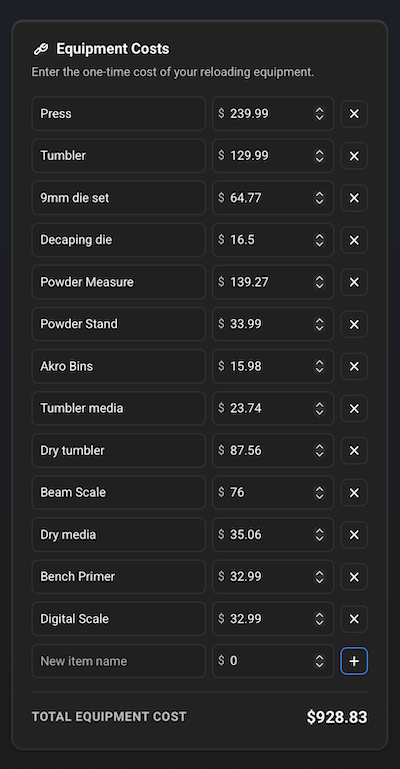
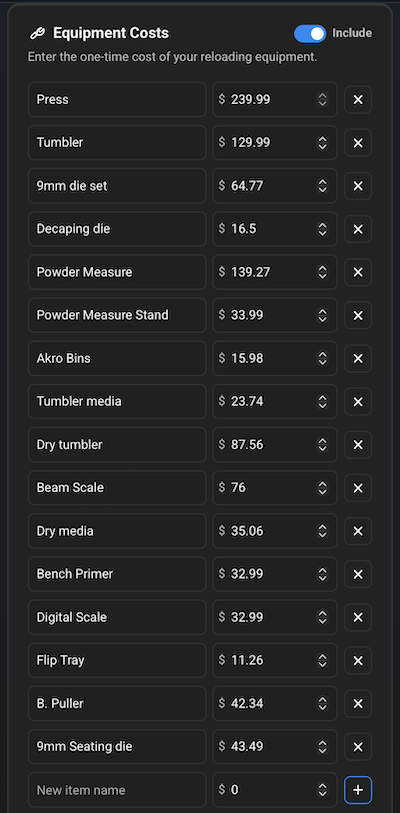
Added flip switch to the documentation.

diff --git a/README.md b/README.md
@@ -247,13 +247,15 @@ The left column lists all your reload and factory entries with checkboxes. Check
 
 ### 5.2 Equipment Costs
 
-The right column is where you enter your one-time reloading equipment costs — press, dies, tumbler, scale, etc.
+The right column is where you enter your one-time reloading equipment costs (press, dies, tumbler, scale, etc.)
 
 - Type a name and price in the **New item** row and press **Enter** or click **+** to add it.
 - Click **✕** to remove an item.
 - The running **Total Equipment Cost** is shown at the bottom.
 
 This total is treated as an upfront investment that your per-round savings must recover before reloading becomes net-positive.
+
+This cost can be ignored by switching off the **Include** switch.
 
 ![Screenshot: Equipment Costs panel with several items entered](./images/equipment-costs.png)
 